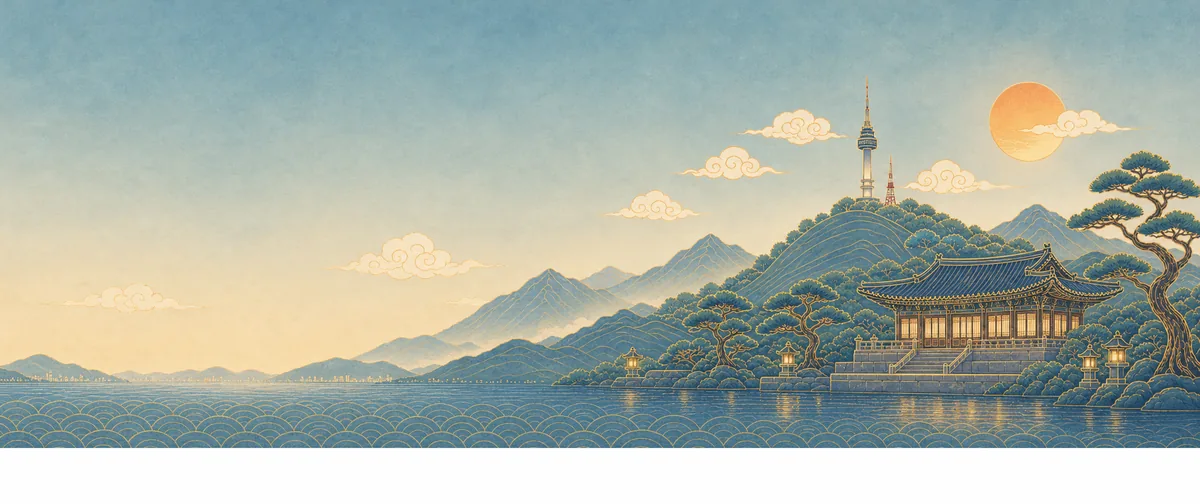
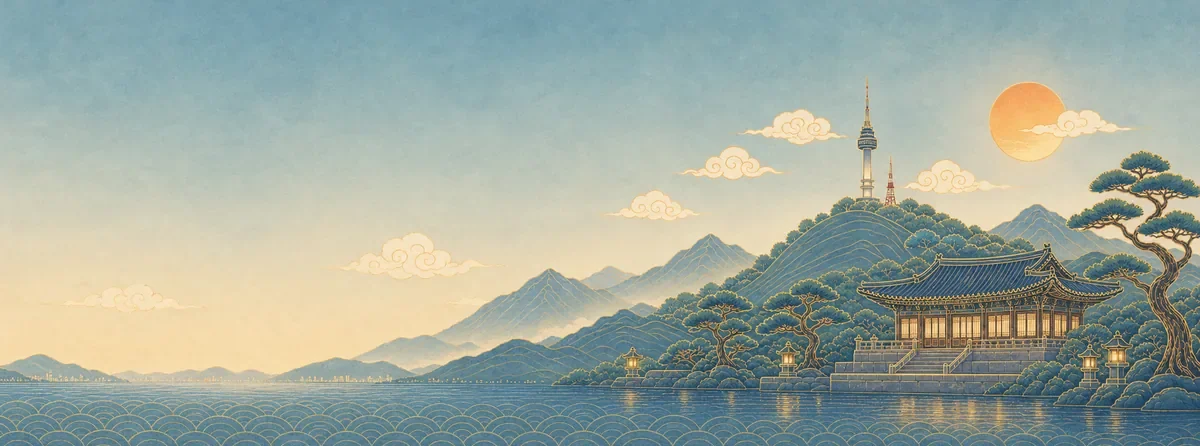
Полоса меню: шапки страниц тянутся под неё без шва; шапка курса днём — картинка справа
- На компьютере небо главной, пейзаж и орнамент разделов начинались правее меню, под меню
  оставалась полоса другого цвета. Теперь шапки идут до края экрана, содержимое на месте.
- Страница курса днём: вместо общего пейзажа под текстом — большая картинка справа, как ночью;
  у дневной картинки обрезано белое поле снизу.
- Кэш mirae-v8.

Claude-Session: https://claude.ai/code/session_01UGmpFWFVYfLF2Xad4Zex3z

diff --git a/css/style.css b/css/style.css
@@ -1845,3 +1845,15 @@ html[data-theme=day] .lc[data-l=en] .lc-art{background-position:50% calc(100% + 
 .flash-w{overflow-wrap:break-word}
 /* фокус на кнопках оценки не прячется под нижнее меню телефона */
 html:has(body.has-tabs){scroll-padding-bottom:calc(100px + env(safe-area-inset-bottom,0px))}
+/* полоса меню слева: шапки страниц (небо главной, пейзаж и орнамент разделов) тянутся под неё до края экрана,
+   иначе под меню оставалась ровная полоса другого цвета с заметной границей; содержимое шапок стоит на прежнем месте */
+@media(min-width:900px){
+  body.has-rail .hero{margin-left:-108px;padding-left:calc(24px + 108px)}
+  body.has-rail header.band{margin-left:-108px;padding-left:calc(16px + 108px)}
+}
+/* страница курса днём: как ночью — большая картинка справа (дневная hero-*-day), а не общий пейзаж по центру под текстом */
+html[data-theme=day]:is([data-lang=ko],[data-lang=en]) header.band.course-hero::before{background:var(--hero2) 100% calc(100% - 16px)/auto calc(100% - 16px) no-repeat;
+  -webkit-mask-image:linear-gradient(180deg,transparent 0,#000 18%,#000 calc(100% - 30px),transparent calc(100% - 16px)),linear-gradient(90deg,transparent 22%,#000 56%);-webkit-mask-composite:source-in;
+  mask-image:linear-gradient(180deg,transparent 0,#000 18%,#000 calc(100% - 30px),transparent calc(100% - 16px)),linear-gradient(90deg,transparent 22%,#000 56%);mask-composite:intersect}
+@media(max-width:720px){html[data-theme=day]:is([data-lang=ko],[data-lang=en]) header.band.course-hero::before{background-size:auto calc(100% - 16px);background-position:80% calc(100% - 16px);
+  -webkit-mask-image:linear-gradient(180deg,transparent 14%,rgba(0,0,0,.6) 42%,#000 66%,#000 calc(100% - 30px),transparent calc(100% - 16px));mask-image:linear-gradient(180deg,transparent 14%,rgba(0,0,0,.6) 42%,#000 66%,#000 calc(100% - 30px),transparent calc(100% - 16px))}}

diff --git a/sw.js b/sw.js
@@ -2,7 +2,7 @@
    страницы — «сначала сеть» (свежая версия, без сети — сохранённая), остальное — из кэша с фоновым обновлением.
    Запросы к серверу (Supabase, озвучка, перевод) не кэшируются: прогресс без сети пишется на устройство (localStorage)
    и уходит в облако, когда связь вернётся (js/common.js, js/vocab.js). Поменять VER — сбросить старый кэш. */
-const VER = "mirae-v7";
+const VER = "mirae-v8";
 const CORE = ["./", "index.html", "auth.html", "cabinet.html", "course.html", "words.html", "lesson.html", "practice.html", "test.html", "css/style.css", "js/config.js", "js/common.js", "js/srs.js", "js/vocab.js", "js/lesson.js", "js/wtest.js"];
 self.addEventListener("install", e => {
   e.waitUntil(caches.open(VER).then(c => Promise.all(CORE.map(u => c.add(u).catch(() => null)))).then(() => self.skipWaiting()));
